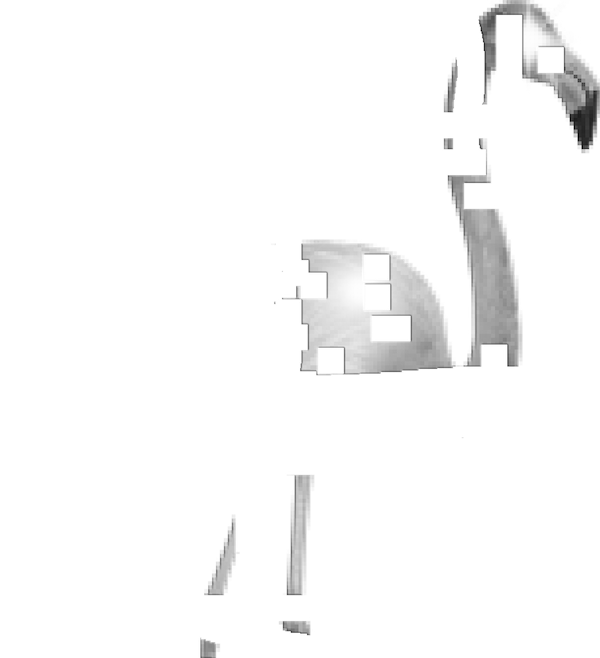
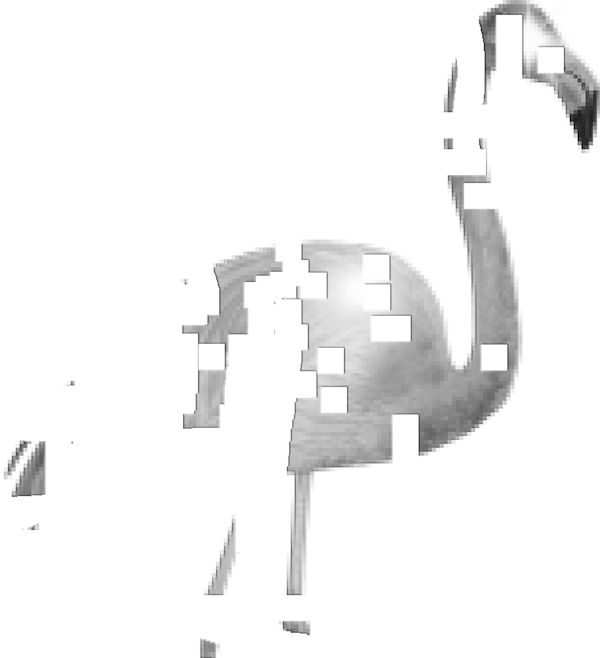
P3: Fixed problem with clickthrough by adding more flamingo frames

Changed region(s): [[0.48, 0.5471, 0.87, 0.7295], [0.3, 0.3647, 0.48, 0.6687], [0.0, 0.6687, 0.09, 0.7599]]

diff --git a/Projects/Project 3/js/Character.js b/Projects/Project 3/js/Character.js
@@ -1,6 +1,9 @@
-class Character extends Planet{
-  constructor (x, y, array, landState, messageSound, speed, textSpeech){
-    super(x, y, array, landState) // can i use these although they're titled diferently in the planet file?? do i have to declare them here
+//character
+//
+// This class creates objects similar to planets but with movements and a customizable change in text when the player gets close 
+class Character extends Planet {
+  constructor(x, y, array, landState, messageSound, speed, textSpeech) {
+    super(x, y, array, landState)
     this.x = x;
     this.y = y;
     // Velocity and speed
@@ -13,17 +16,17 @@ class Character extends Planet{
     this.currentArrayImage = array[this.currentArrayIndex];
     this.width = this.currentArrayImage.width;
     this.speed = speed;
-  // Time properties for noise() function
+    // Time properties for noise() function
     this.tx = random(0, 1000); // To make x and y noise different
     this.ty = random(0, 1000); // we use random starting values
     // Sin properties for oscillation 'animation'
     this.angle = 0;
-    this.radius = this.width/2;
+    this.radius = this.width / 2;
     this.textSpeech = "textSpeech";
   }
   // move
   //
-  // Sets velocity based on the noise() function and the Prey's speed
+  // Sets velocity based on the noise() function
   // Moves based on the resulting velocity and handles wrapping
   move() {
     // Set velocity via noise()
@@ -39,34 +42,32 @@ class Character extends Planet{
     this.handleWrapping();
   }
 
-    // handleWrapping
-    //
-    // Checks if the prey has gone off the canvas and
-    // wraps it to the other side if so
-    handleWrapping() {
-      // Off the left or right
-      if (this.x < 0) {
-        this.x += width;
-      }
-      else if (this.x > width) {
-        this.x -= width;
-      }
-      // Off the top or bottom
-      if (this.y < 0) {
-        this.y += height;
-      }
-      else if (this.y > height) {
-        this.y -= height;
-      }
+  // handleWrapping
+  //
+  // Checks if the prey has gone off the canvas and
+  // wraps it to the other side if so
+  handleWrapping() {
+    // Off the left or right
+    if (this.x < 0) {
+      this.x += width;
+    } else if (this.x > width) {
+      this.x -= width;
     }
-
-    checkTextSpeech(playerX, playerY, playerWidth, textSpeech){
-      this.d = dist(playerX, playerY, this.x, this.y);
-      if (this.d < playerWidth + this.width) {
-        textSpeech = this.textSpeech;
-        messageSound.amp(0.3);
-        messageSound.playMode('untilDone');
-        messageSound.play();
-      }
+    // Off the top or bottom
+    if (this.y < 0) {
+      this.y += height;
+    } else if (this.y > height) {
+      this.y -= height;
     }
+  }
+  //Change textspeech when player gets close
+  checkTextSpeech(playerX, playerY, playerWidth, textSpeech) {
+    this.d = dist(playerX, playerY, this.x, this.y);
+    if (this.d < playerWidth + this.width) {
+      textSpeech = this.textSpeech;
+      messageSound.amp(0.3);
+      messageSound.playMode('untilDone');
+      messageSound.play();
+    }
+  }
 }

diff --git a/Projects/Project 3/js/script.js b/Projects/Project 3/js/script.js
@@ -85,7 +85,8 @@ let charactersArray = [];
 let playerObject;
 let menArray = [];
 let messageSound;
-let subFlamingoImage;
+let subFlamingoImageLeft;
+let subFlamingoImageRight;
 let subflamingoArray = [];
 
 //preload
@@ -140,7 +141,7 @@ function resourceSetup() {
     planet3Array.push(planet3Image);
   }
   //Flamingo 'planet'
-  for (let i = 0; i <= 6; i++) {
+  for (let i = 0; i <= 9; i++) {
     let flamingoPath = "assets/images/flamingo/flamingotop" + i + ".png";
     let flamingoImage = loadImage(flamingoPath);
     flamingoArray.push(flamingoImage);
@@ -160,7 +161,8 @@ function resourceSetup() {
   flamingoImage = loadImage("assets/images/flamingo.png");
   flamingoTopImage = loadImage("assets/images/flamingotop.png");
   flamingoMidImage = loadImage("assets/images/flamingomedium.png");
-  subFlamingoImage = loadImage("assets/images/subflamingo.png");
+  subFlamingoImageLeft = loadImage("assets/images/subflamingoleft.png");
+  subFlamingoImageRight =loadImage("assets/images/subflamingoright.png");
 
   //Other sounds
   backgroundSound = loadSound("assets/sounds/shortAmbiance.wav");
@@ -525,7 +527,6 @@ function landState8Display() {
 //
 //Create planet objects using constructor of Planet class and push them into an array
 function callClassObjects() {
-  playerObject = new Player(100, 50, 10, playerLeft1, playerRight1, eatSound);
 
   let planetObject1 = new Planet(850, 50, planet2Array, 0, eatSound);
   let planetObject2 = new Planet(850, 50, planet1Array, 1, eatSound);
@@ -535,6 +536,8 @@ function callClassObjects() {
   planetsArray.push(planetObject1);
   planetsArray.push(planetObject2);
   planetsArray.push(planetObject3);
+  planetsArray.push(planetObject4);
+  planetsArray.push(planetObject5);
 
   flamingoObject = new Flamingo(300, 100, flamingoArray, 8, eatSound);
 
@@ -560,11 +563,11 @@ function callClassObjects() {
   charactersArray.push(characterObject9);
   charactersArray.push(characterObject10);
 
-  subflamingoObject1 = new Subflamingo(100, 100, subFlamingoImage, 7, 4);
-  subflamingoObject2 = new Subflamingo(100, 230, subFlamingoImage, 7, 4);
-  subflamingoObject3 = new Subflamingo(200, 120, subFlamingoImage, 7, 4);
-  subflamingoObject4 = new Subflamingo(230, 100, subFlamingoImage, 7, 4);
-  subflamingoObject5 = new Subflamingo(100, 120, subFlamingoImage, 7, 4);
+  subflamingoObject1 = new Subflamingo(100, 100, subFlamingoImageLeft, 5, 4);
+  subflamingoObject2 = new Subflamingo(100, 230, subFlamingoImageLeft, 5, 4);
+  subflamingoObject3 = new Subflamingo(200, 120, subFlamingoImageLeft, 5, 4);
+  subflamingoObject4 = new Subflamingo(230, 100, subFlamingoImageRight, 5, 4);
+  subflamingoObject5 = new Subflamingo(100, 120, subFlamingoImageRight, 5, 4);
 
   subflamingoArray.push(subflamingoObject1);
   subflamingoArray.push(subflamingoObject2);

diff --git a/Projects/Project 3/js/Subflamingo.js b/Projects/Project 3/js/Subflamingo.js
@@ -2,13 +2,14 @@
 //
 // These objects appear around the big flamingo on landstate8 and avoid the player when it comes near. They disappear when the big flamingo does.
 class Subflamingo {
-  construct(x, y, image, landState, speed) {
+  constructor(x, y, image, landState, speed) {
     this.x = x;
     this.y = y;
     this.vx = 0;
     this.vy = 0;
 
     this.image = image;
+
     this.width = this.image.width;
     this.height = this.image.height;
     this.landState = landState;
@@ -22,13 +23,17 @@ class Subflamingo {
   }
   //draw
   //
-  // Displays the objects on canvas with oscillation.  Only does so if the flamingo has been 'killed'
+  // Displays the objects on canvas with oscillation.  Only does so if the flamingo has been 'killed' and landstate check returns correct
   draw(landState, flamingoObject){
+    if (landState != this.landState) {
+      return;
+    }
     if(flamingoObject.killSwitch === true){
       return;
     }
     this.growth = sin(this.angle)*(this.radius/8);
-    image(this.image, this.x, this.y, this.image.width + this.growth, this.height);
+    //console.log(this.image.width);
+    image(this.image, this.x, this.y, this.width + this.growth, this.height);
     this.angle += 0.05;
   }
   // move

diff --git a/Projects/Project 3/js/Star.js b/Projects/Project 3/js/Star.js
@@ -1,6 +1,6 @@
 //star
 //
-// star class
+// The player commands Star objects by clicking. If the star connects with a planet object, it can revive a 'dead' planet.
 class Star {
   constructor(x, y ) {
     this.x = x;
@@ -17,7 +17,7 @@ class Star {
   // checkDistance
   //
   //
-  //
+  //Checks the distance between the star (mouse)
   checkDistance(planet) {
     this.d = dist(planet.x, planet.y, this.x, this.y);
     if (this.d < planet.width + starGif_createImg0.width) { // planet class has a defined class

diff --git a/Projects/Project 3/index.html b/Projects/Project 3/index.html
@@ -14,12 +14,10 @@
 
     <!-- My script(s) -->
     <script src="js/Planet.js"></script>
-    <script src="js/Player.js"></script>
     <script src="js/Star.js"></script>
     <script src="js/Flamingo.js"></script>
     <script src="js/Subflamingo.js"></script>
     <script src="js/Character.js"></script>
-    <script src="js/Dog.js"></script>
     <script src="js/script.js"></script>
     <script src="js/libraries/p5.sound.min.js"></script>
   </head>

diff --git a/Projects/Project 3/js/Planet.js b/Projects/Project 3/js/Planet.js
@@ -30,7 +30,7 @@ class Planet {
   // draw
   //
   // check where the player is. if it's the correct landstate, display image
-  draw(landState, /*flamingoObject*/) {
+  draw(landState) {
     if (landState != this.landState) {
       return;
     }
